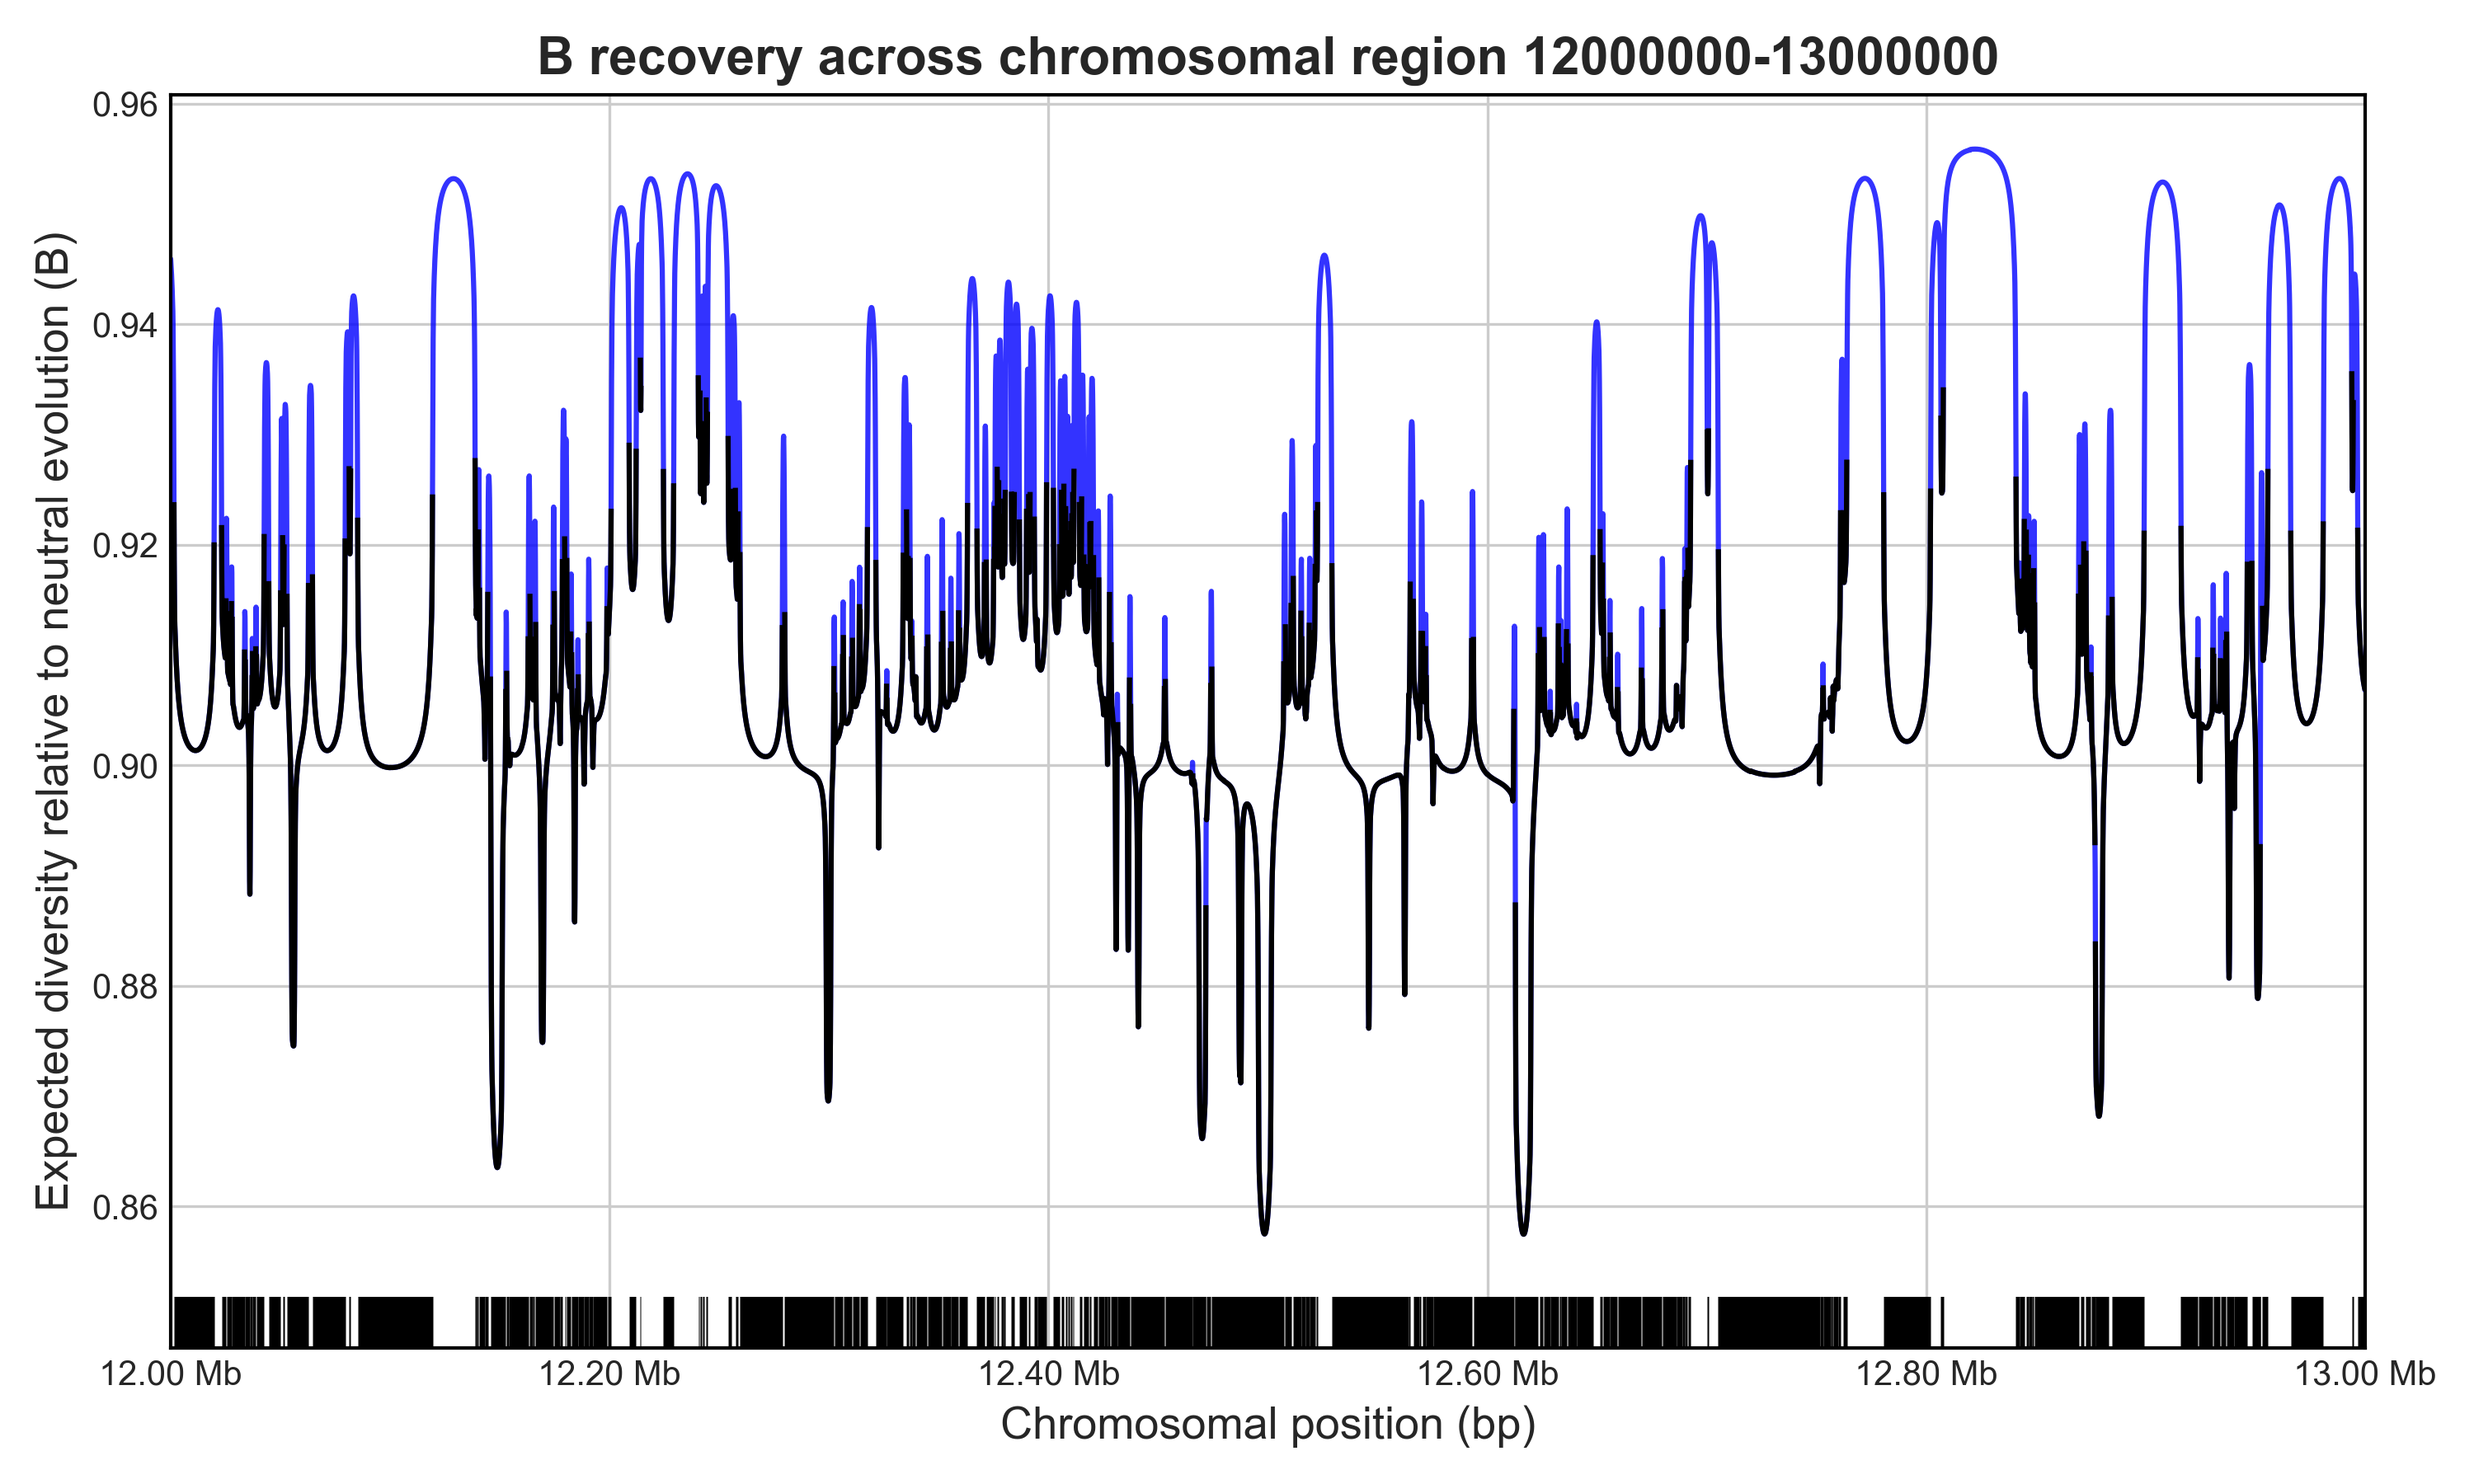
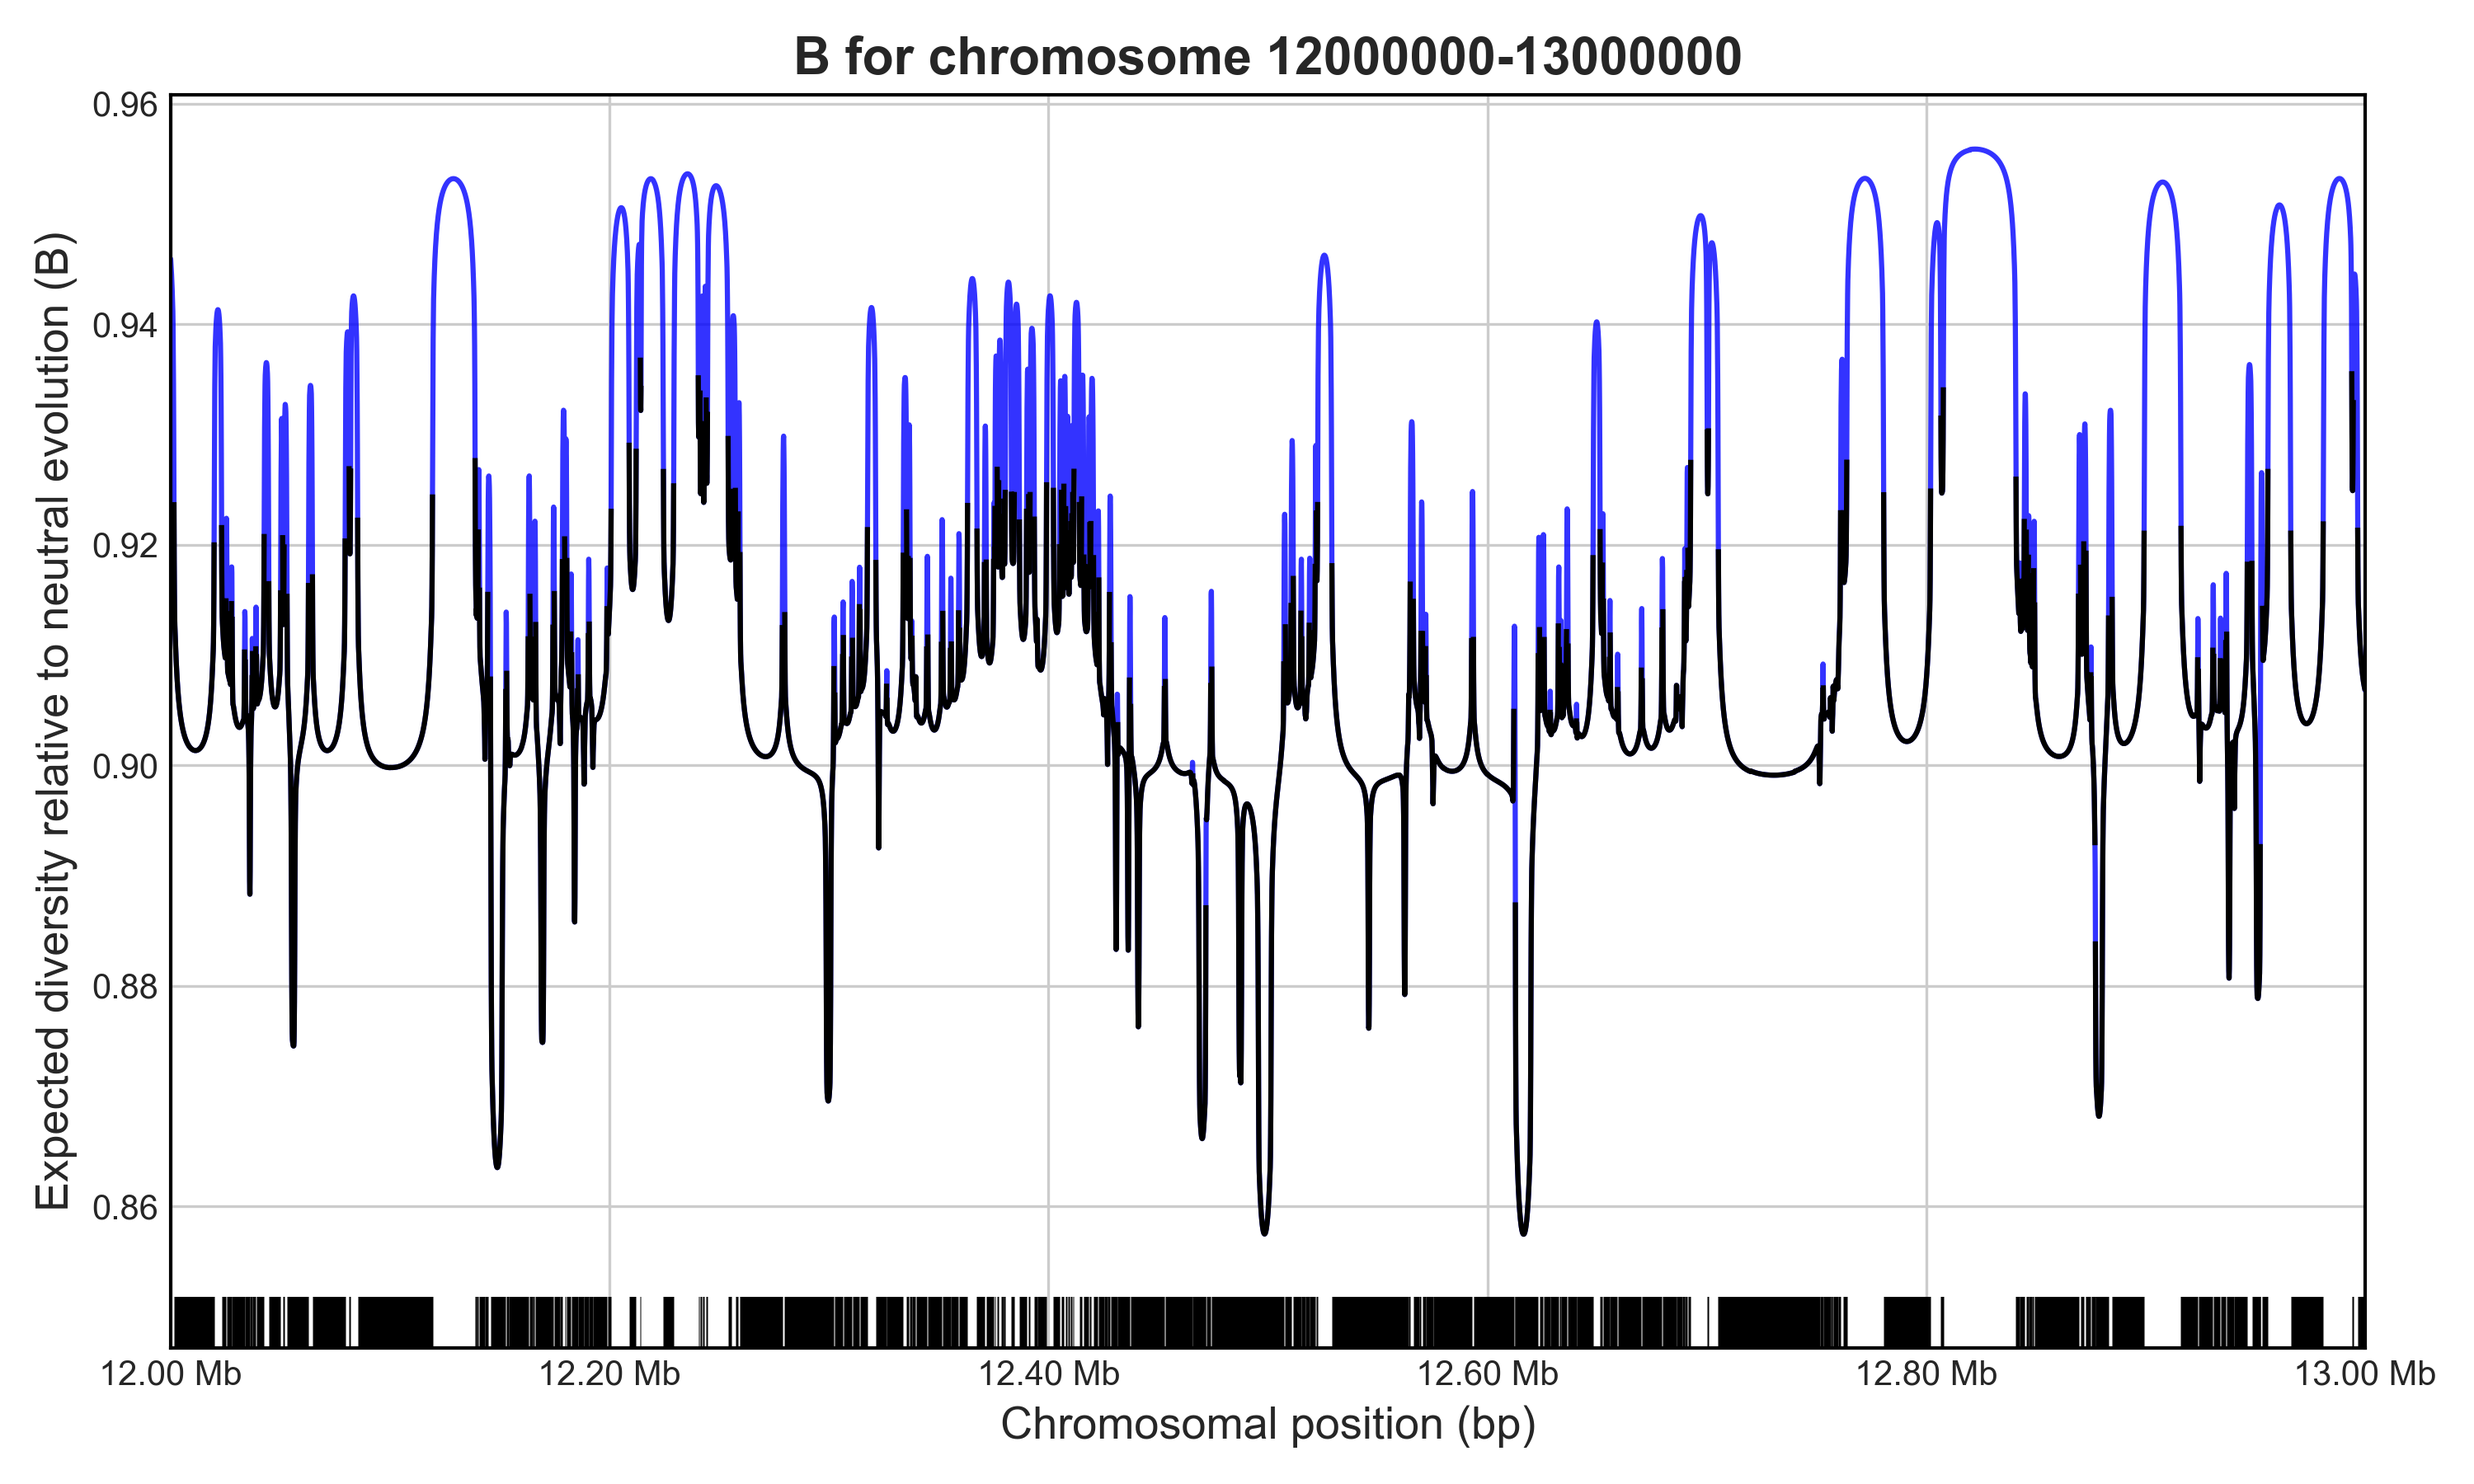
Read in chromosome from BED file

Changed region(s): [[0.217, 0.0, 0.806, 0.0622]]

diff --git a/core/utils/bedgffHandler.py b/core/utils/bedgffHandler.py
@@ -2,28 +2,31 @@ import csv
 import numpy as np
 
 def bedgffHandler(file_path):
-
-        ## 1. Read in BED input
     blockstart = []
     blockend = []
+    chromosomes = []  # List to hold the chromosome name for each block
     seen_blocks = set()
 
     with open(file_path, 'r') as file:
         reader = csv.reader(file)
         for row in reader:
-                        if row and row[0].startswith("#"): # Skip header rows
-                            continue
-                        if len(row) >= 3:
-                            start, end = int(row[1]), int(row[2])
-                            if end < start:
-                                start, end = end, start # Flip reverse orientation genes
-                            if (start, end) not in seen_blocks:  # Check if the pair is unique
-                                seen_blocks.add((start, end))  # Mark this pair as seen to avoid duplicates
-                                blockstart.append(start)
-                                blockend.append(end)
-    blockstart = np.array(blockstart) # Position where blocks (selected regions) start
-    blockend = np.array(blockend) # Position where blocks (selected regions) end
+            if row and row[0].startswith("#"):  # Skip header or comment lines
+                continue
+            if len(row) >= 3:
+                chrom = str(row[0])
+                start, end = int(row[1]), int(row[2])
 
-    return blockstart, blockend
+                if end < start:
+                    start, end = end, start  # Flip if needed
 
+                if (start, end) not in seen_blocks:
+                    seen_blocks.add((start, end))
+                    chromosomes.append(chrom)
+                    blockstart.append(start)
+                    blockend.append(end)
 
+    blockstart = np.array(blockstart)
+    blockend = np.array(blockend)
+    chromosomes = np.array(chromosomes)
+
+    return blockstart, blockend, chromosomes

diff --git a/core/plotB.py b/core/plotB.py
@@ -82,7 +82,7 @@ def plotB(b_values_input, caller, output_path, quiet, gene_ranges=None, neutral_
     ax.set_ylabel('Expected diversity relative to neutral evolution (B)', fontsize=13)
 
     if caller == "genome":
-        ax.set_title(f'B recovery across chromosomal region {positions.min()}-{positions.max()}', fontsize=15, fontweight='bold')
+        ax.set_title(f'B for chromosome {positions.min()}-{positions.max()}', fontsize=15, fontweight='bold')
         ax.set_xlabel('Chromosomal position (bp)', fontsize=13)
     elif caller == "region":
         ax.set_xlabel('Distance from single selected element of size', fontsize=13)

diff --git a/core/genomeBcalc.py b/core/genomeBcalc.py
@@ -21,7 +21,8 @@ def genomeBcalc(args):
         print(f"Size of chunks to calculate B in per iteration: {chunk_size}bp")
         print(f"Number of adjacent chunks to calculate B precisely for: {precise_chunks}")
 
-    blockstart, blockend = bedgffHandler(file_path) # Read BED/GFF, return start and end of conserved elements
+    blockstart, blockend, blockchrom = bedgffHandler(file_path) # Read BED/GFF, return start and end of conserved elements
+    print(blockchrom)
     
     if args.chr_end is None: # Default chr_end to last value in blockend if not given
         if len(blockend) == 0:
